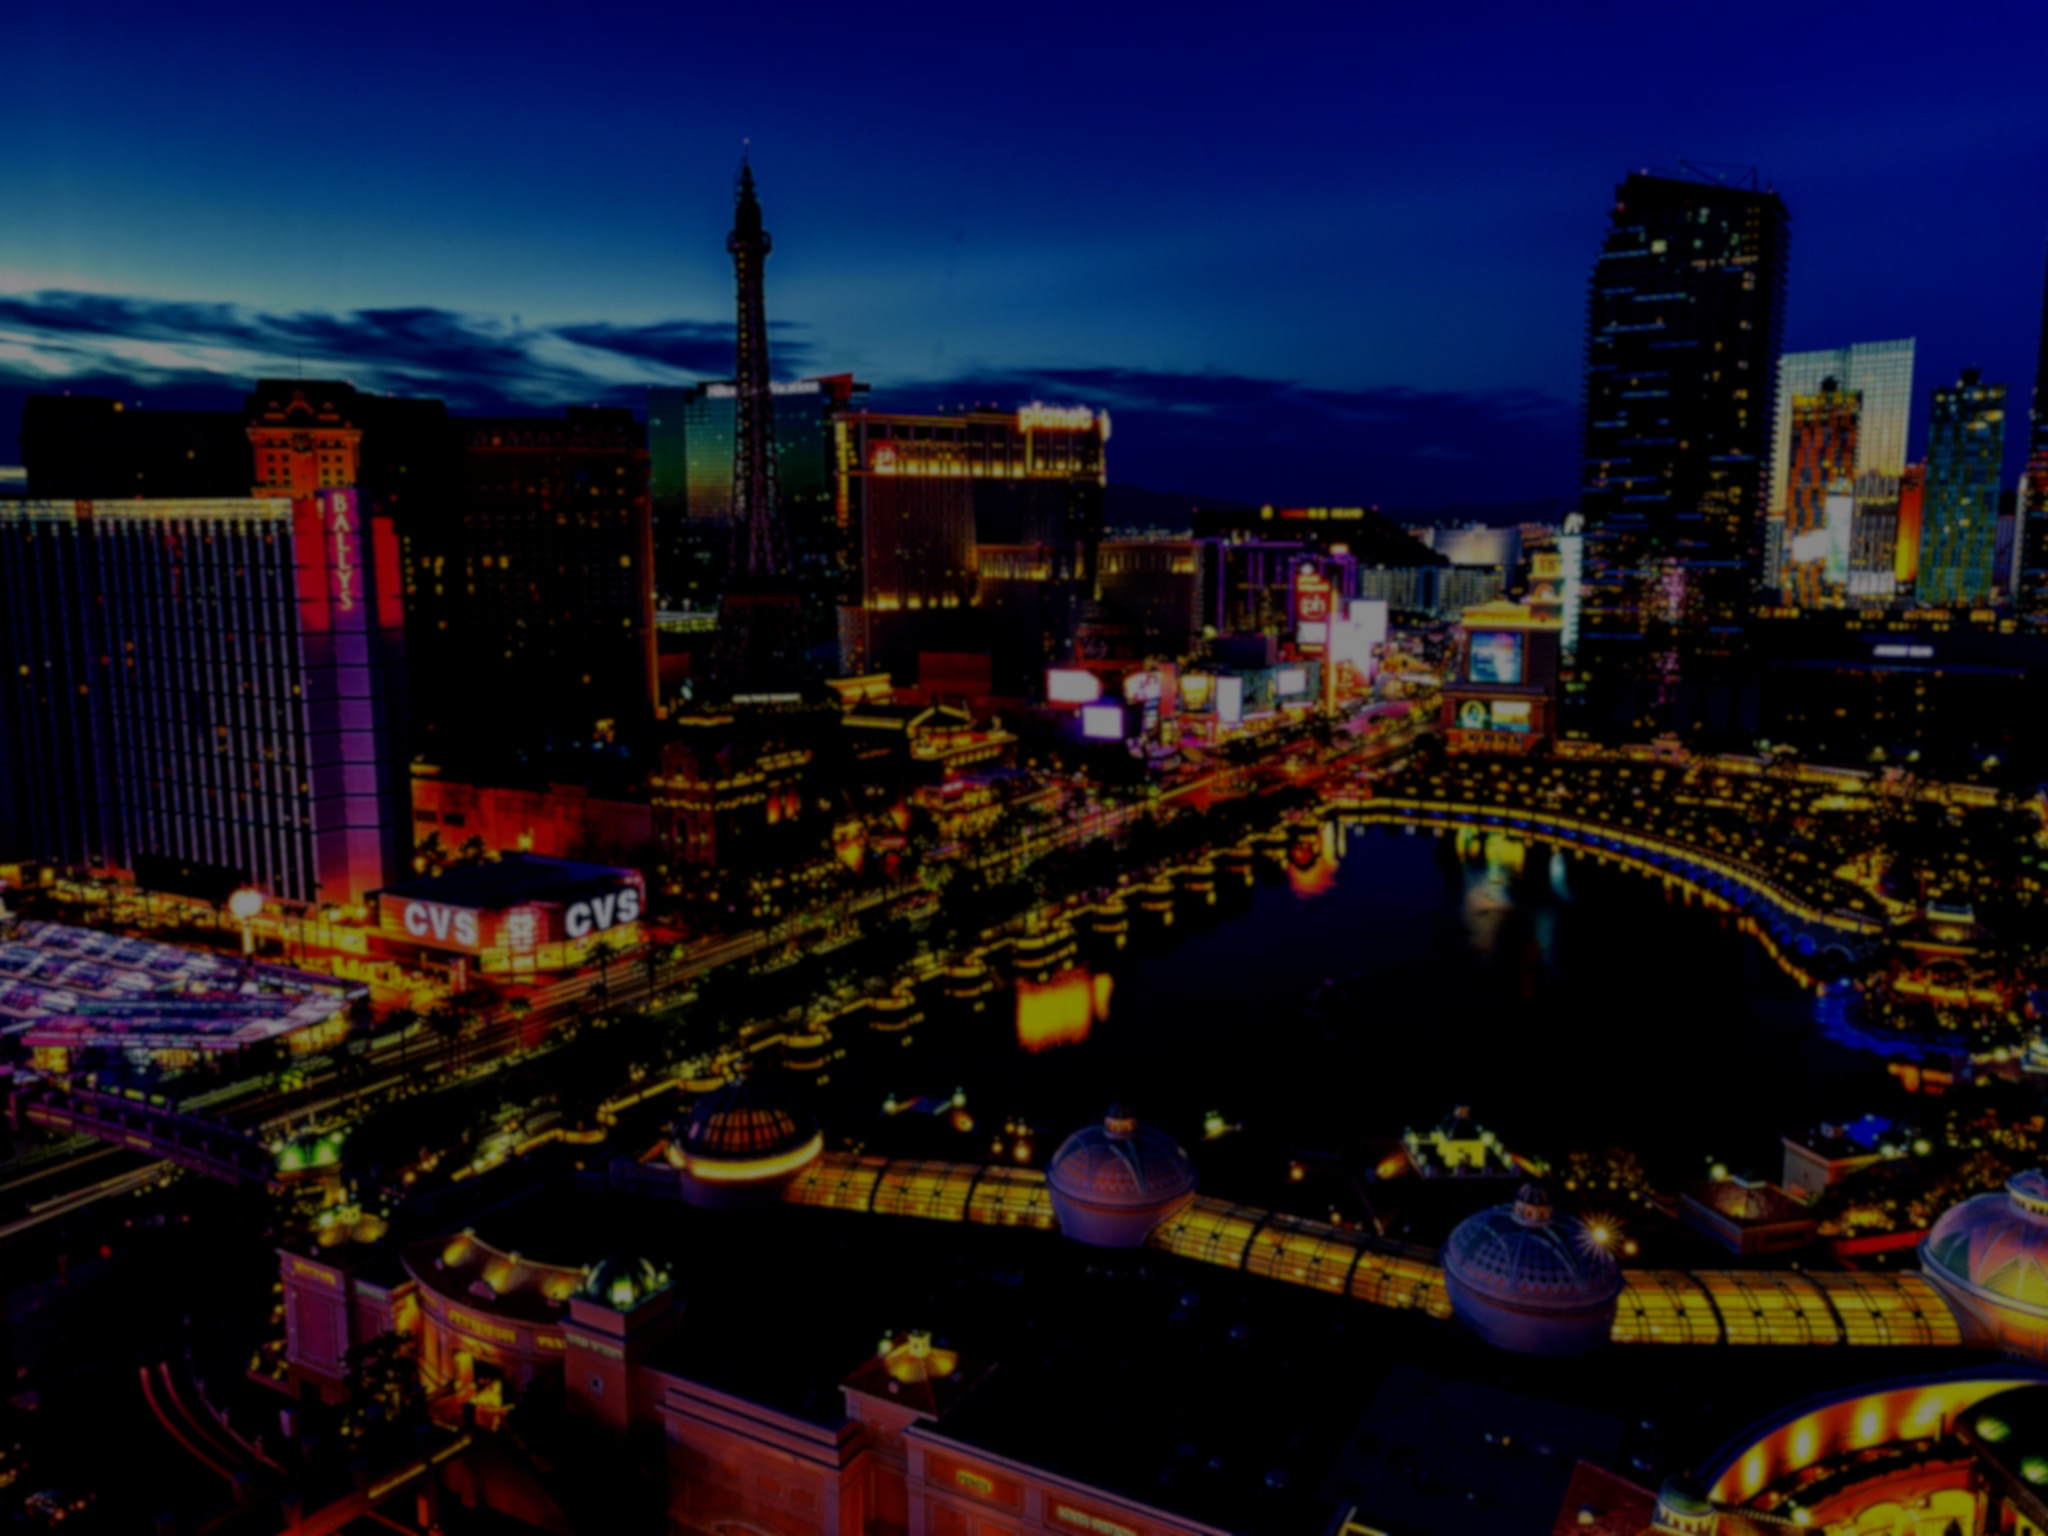
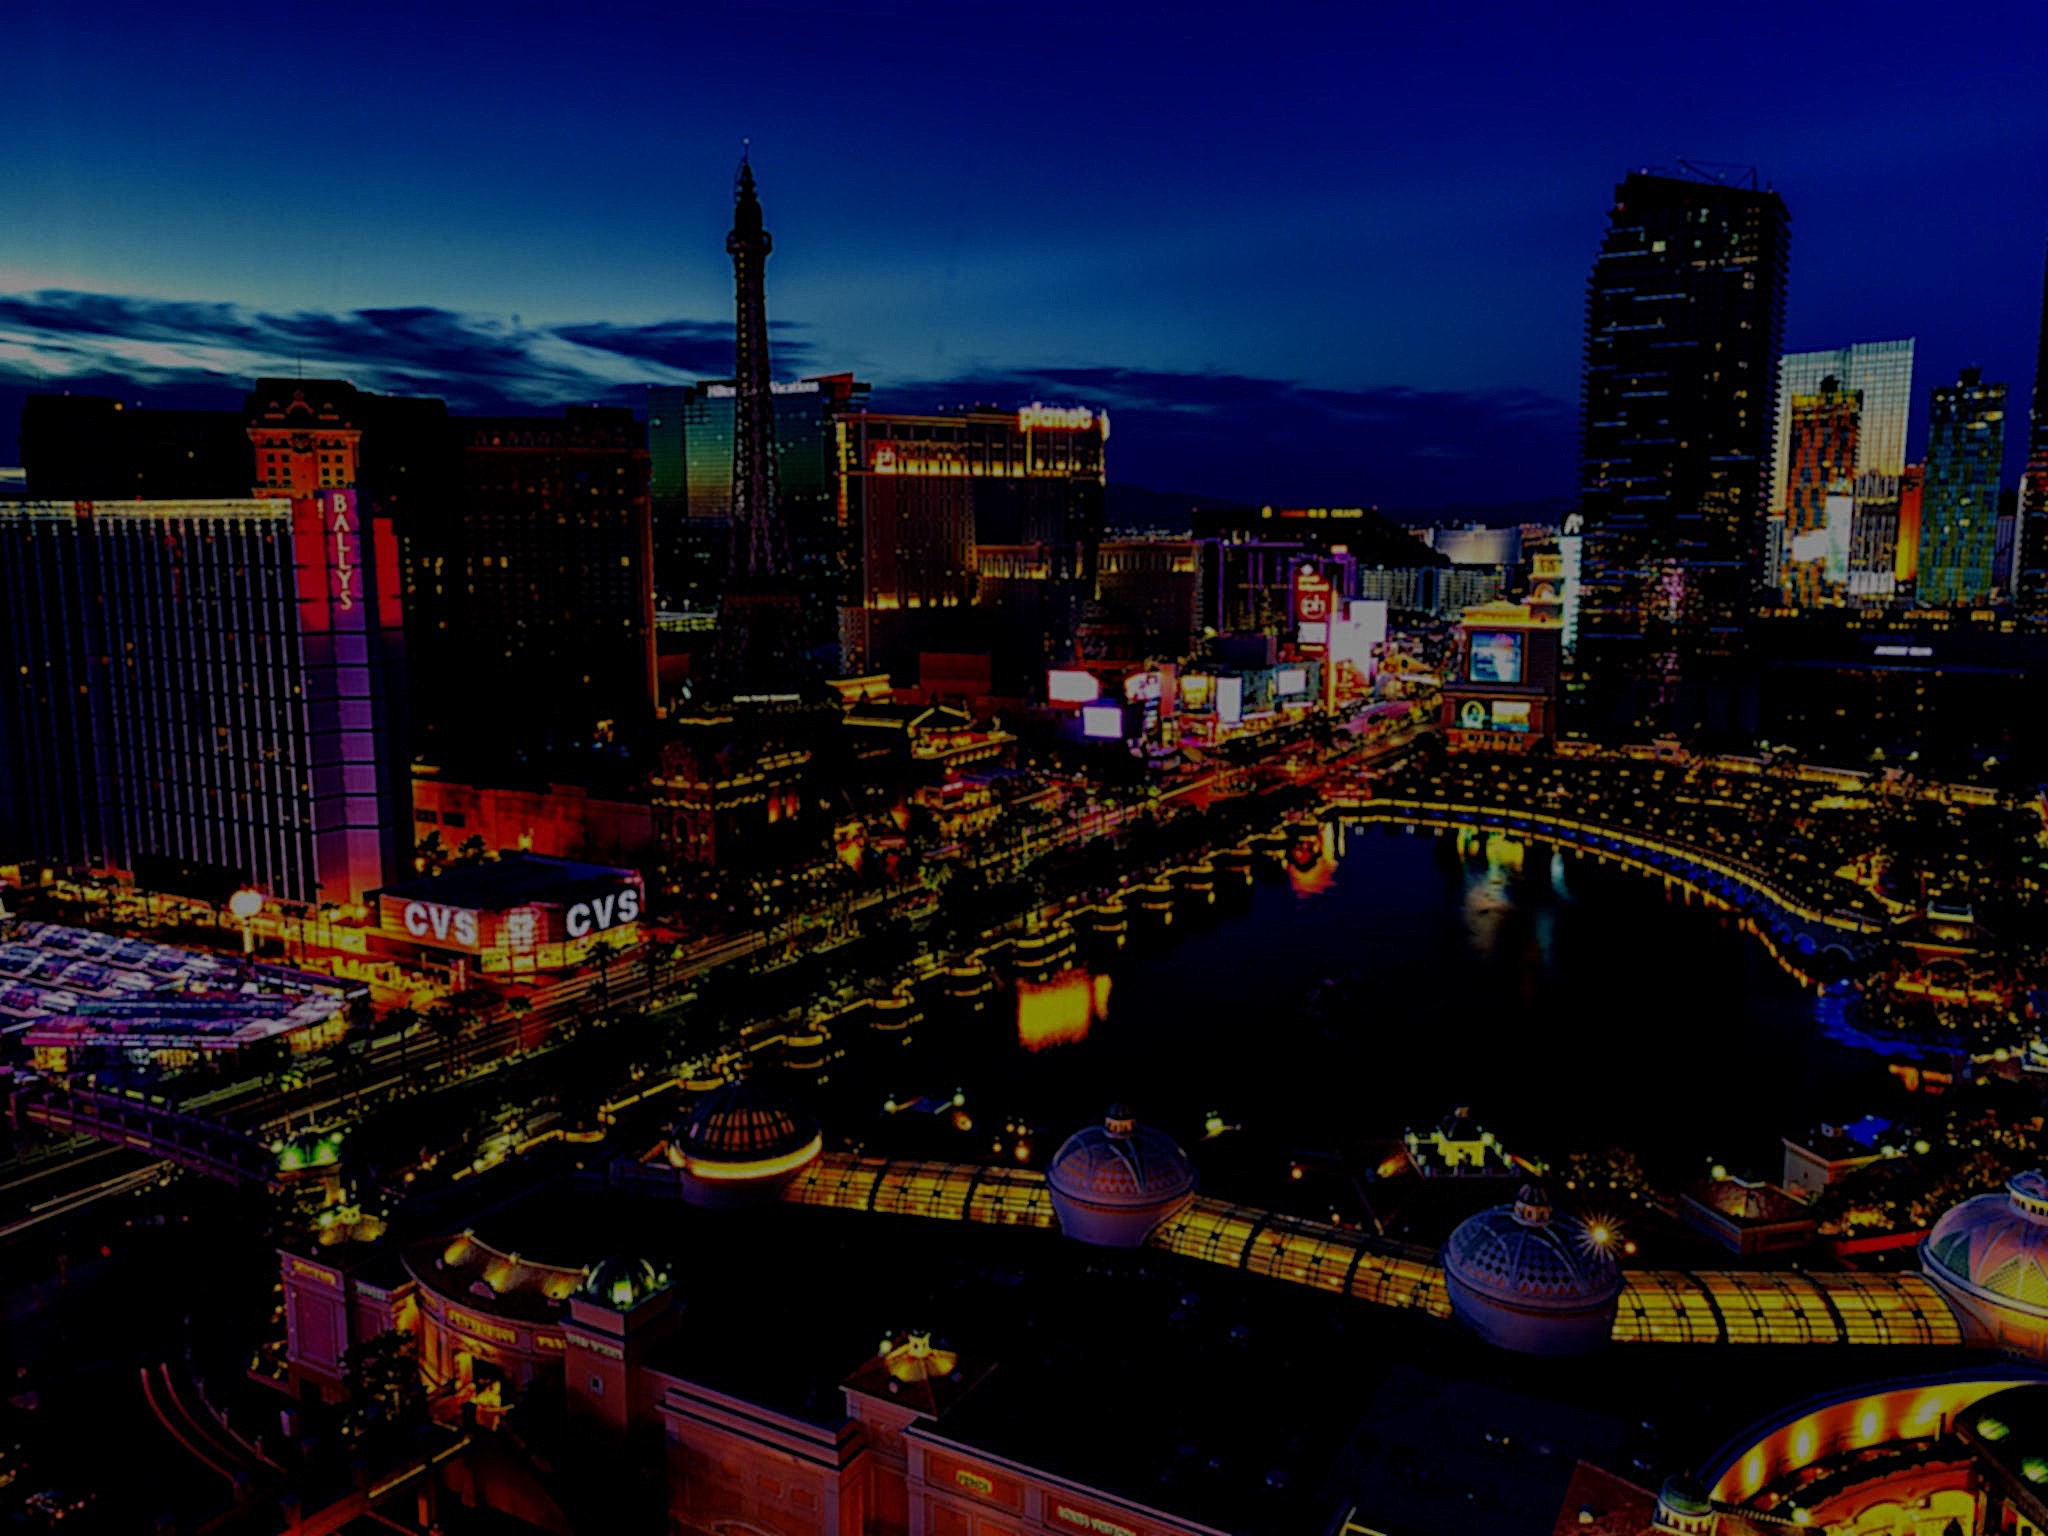
added styles and fleshed out pages

diff --git a/src/components/About.js b/src/components/About.js
@@ -3,10 +3,12 @@ import '../styles/About.scss'
 
 const About = () =>{
     return (
-        <div className='card'>
-            <h3>About Taylor</h3>
-            <p>Born and raised in Casper, Wyoming, I like to bring the "small town" culture in which I was raised to all of my work. Treating people with respect, taking pride in your work, and a strong committment to success are the values that guide me. I graduated with an A.A. in Multimedia Communications in May of 2019. After graduation I moved to Las Vegas to soak up the thriving culture and arts scene, and continue my education in Web Development.</p>
-            <p>Web development and design are not my only passions in life. I am also an avid follower of sports. My favorite teams are the Los Angeles Lakers, the Philadelphia Eagles, and the Atlanta Braves. Growing up in Wyoming I never had any local professional sports teams to root for, so I had to pick from the ones I could see on TV. I played baseball until college, but recently discovered an intense love of golf. These days almost all of my free time is spent on the links, which works out well in Las Vegas. I find the golf course is a great place to unwind and let my mind wander, which often helps me in my professional life. In addition to my addiction to golf, I also have a fantasy football podcast.</p>
+        <div className='container'>
+            <div className='card'>
+                <h3>About Taylor</h3>
+                <p>Born and raised in Casper, Wyoming, I like to bring the "small town" culture in which I was raised to all of my work. Treating people with respect, taking pride in your work, and a strong committment to success are the values that guide me. I graduated with an A.A. in Multimedia Communications in May of 2019. After graduation I moved to Las Vegas to soak up the thriving culture and arts scene, and continue my education in Web Development.</p>
+                <p>Web development and design are not my only passions in life. I am also an avid follower of sports. My favorite teams are the Los Angeles Lakers, the Philadelphia Eagles, and the Atlanta Braves. Growing up in Wyoming I never had any local professional sports teams to root for, so I had to pick from the ones I could see on TV. I played baseball until college, but recently discovered an intense love of golf. These days almost all of my free time is spent on the links, which works out well in Las Vegas. I find the golf course is a great place to unwind and let my mind wander, which often helps me in my professional life. In addition to my addiction to golf, I also have a fantasy football podcast.</p>
+            </div>
         </div>
     )
 }

diff --git a/src/styles/Header.scss b/src/styles/Header.scss
@@ -35,16 +35,17 @@ padding: 2rem;
 	margin: 0.5rem auto;
 	cursor:pointer;
 	font-size: 1.6rem;
-  background-color:transparent;
-  color: white;
+	font-family: 'Montserrat', sans-serif;
+  	background-color:transparent;
+  	color: white;
 	position:relative;
-	border:2px solid #fff;
+	border:2px solid white;
 
 	@include transition(all 0.5s ease);
 }
 
 .animate1 {
-	color:#fff;
+	color:white;
   border-color:transparent;
   text-decoration: none;
 
@@ -52,7 +53,7 @@ padding: 2rem;
 		width:0;
 		height:3px;
 		content:" ";
-		background-color:darkorange;
+		background-color:white;
 		position:absolute;
 		top:0;
 		left:50%;
@@ -67,7 +68,7 @@ padding: 2rem;
 
 	&:hover {
 		letter-spacing:8px;
-		color:darkorange;
+		color:white;
 
 		&:before {
 			width:100%;

diff --git a/src/styles/App.scss b/src/styles/App.scss
@@ -1,29 +1,31 @@
+html{
+  font-size: 62.5%;
+}
+
 .App {
   text-align: center;
-  background-image: url(../images/lvskyline.jpg);
+  background-image: url(../images/bg.jpg);
   background-size: cover;
   background-repeat: no-repeat;
 }
 
-body{
-	font-size: 62.5%;
-}
-
 .jumbotron{
-  height: 85.25vh;
+  height: 89vh;
   display: flex;
   align-items: center;
   flex-direction: column;
   justify-content: space-around;
   margin: auto;
-}
+  
+  h1{
+    color: white;
+    font-size: 8rem;
+    font-family: 'Montserrat', sans-serif;
+  }
 
-.jumbotron h1{
-	color: white;
-	font-size: 5rem;
-}
-
-.jumbotron p{
-	color: whitesmoke;
-	font-size: 3rem;
+  p{
+    color: lightgrey;
+    font-size: 4.5rem;
+    font-family: 'Montserrat', sans-serif;
+  }
 }

diff --git a/src/styles/Contact.scss b/src/styles/Contact.scss
@@ -1,9 +1,9 @@
 .container{
     width: 95%;
-    height: 89vh;
+    height: 85vh;
 }
 
-.card{
+.contact{
     width: 65%;
     margin: 5rem auto;
     border-radius: 10px;
@@ -11,14 +11,14 @@
     padding: 1rem;
 
     h3{
-        font-size: 3rem;
+        font-size: 3.5rem;
         color: black;
         padding: 1rem;
         font-family: 'Montserrat', sans-serif;
     }
 
     p{
-        font-size: 1.5rem;
+        font-size: 2rem;
         padding: 1rem;
         font-family: 'Montserrat', sans-serif;
     }

diff --git a/src/components/Contact.js b/src/components/Contact.js
@@ -1,7 +1,16 @@
 import React from 'react';
+import '../styles/Contact.scss';
 
 const Contact = () =>{
-    return null;
+    return(
+        <div className='container'>
+            <div className='contact'>
+                <h3>Contact Taylor</h3>
+                <p>Have a project you'd like to collaborate on? Let's talk:</p>
+                <p>Email: taylor.bryce.cool@gmail.com</p>
+            </div>
+        </div>
+    )
 }
 
 export default Contact;

diff --git a/public/index.html b/public/index.html
@@ -9,6 +9,7 @@
       name="Taylor Cool Codes"
       content="Portfolio website for Taylor Cool"
     />
+    <link href="https://fonts.googleapis.com/css?family=Montserrat|Roboto&display=swap" rel="stylesheet">
     <link rel="apple-touch-icon" href="logo192.png" />
     <!--
       manifest.json provides metadata used when your web app is installed on a
